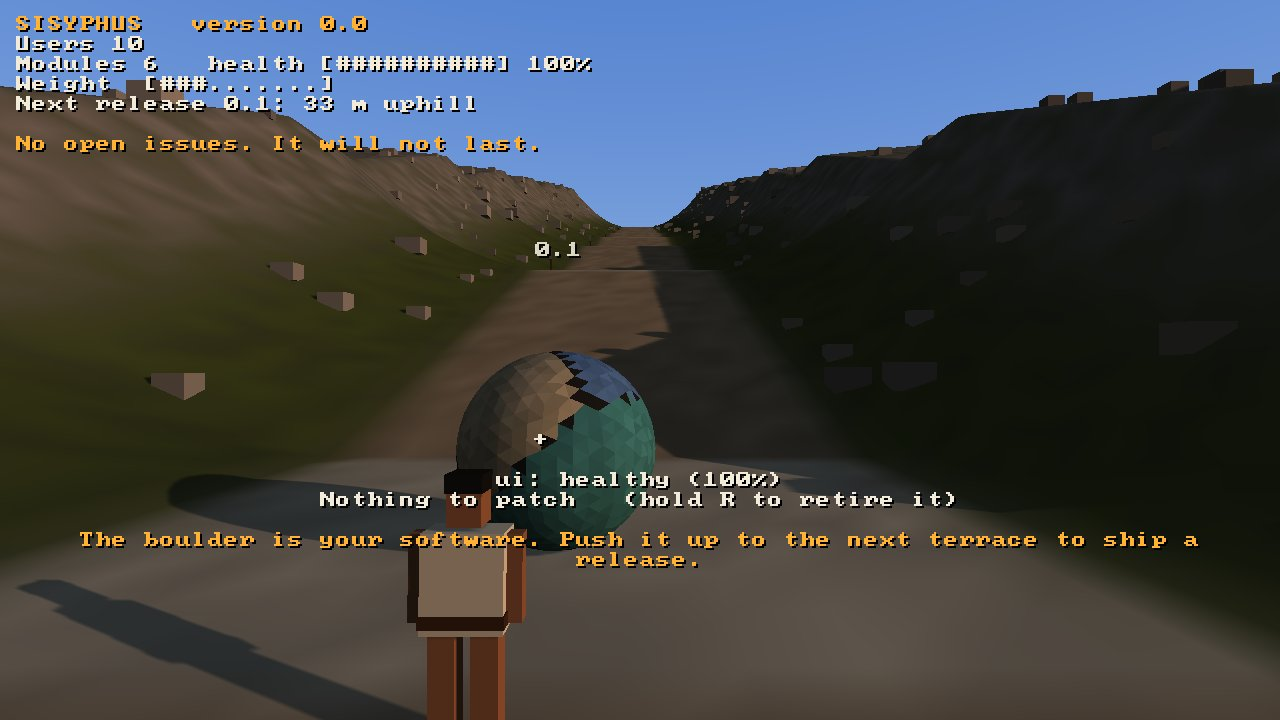
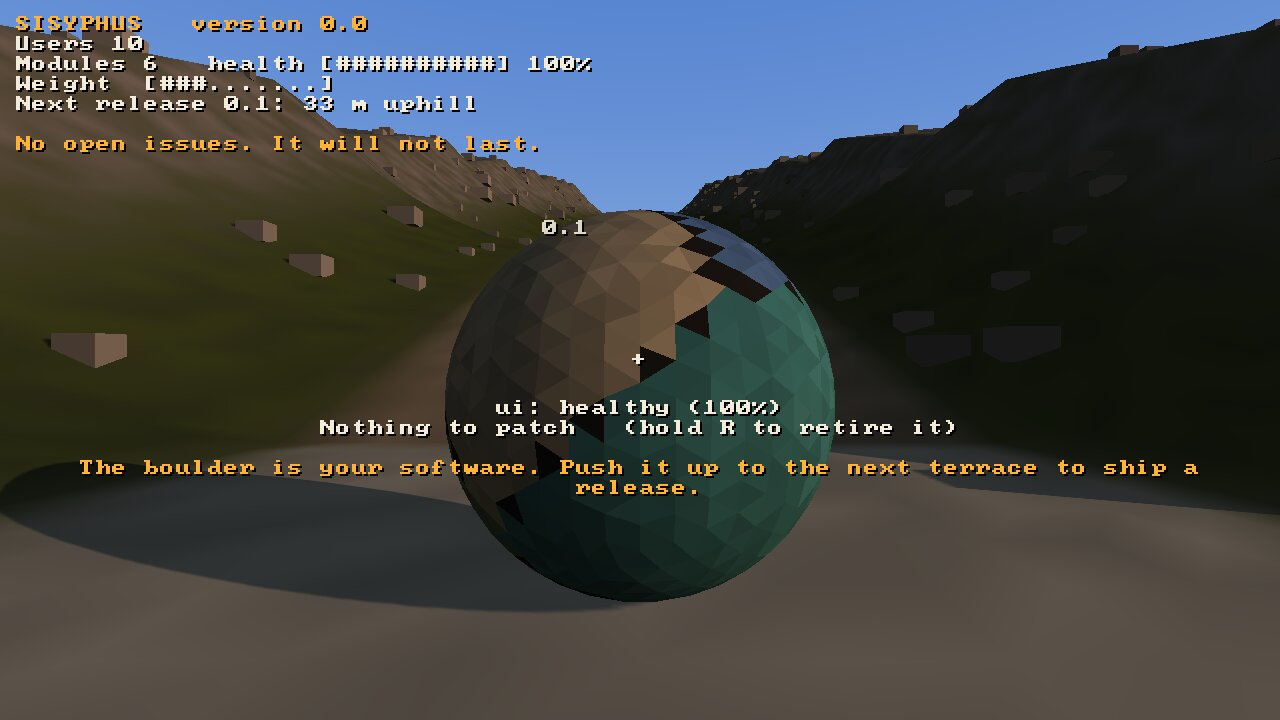
First person by default; V shows him from straight behind (#9)
The game starts at Sisyphus's eyes again. V now switches to a camera
directly behind him, centred, in place of the view over his right
shoulder. The headless playthrough's trailhead shot is from his eyes,
with a new trailhead-behind shot of the other view, and the README image
is refreshed. The rules are untouched: the pinned fingerprint holds.

Claude-Session: https://claude.ai/code/session_01LYNeuk2hw8vxutLJuJf5BC

diff --git a/web/shell.html b/web/shell.html
@@ -108,7 +108,7 @@
     <button id="patchBtn" title="Hold on a module to patch it (E)">Patch</button>
     <button id="retireBtn" title="Hold on a module to retire it (R)">Retire</button>
     <button data-key="20" title="Sit and look at the view (Q)">Sit</button>
-    <button data-key="25" title="His eyes, or over his shoulder (V)">Camera</button>
+    <button data-key="25" title="From behind him, or back to his eyes (V)">Camera</button>
   </div>
   <div id="clickToPlay"><div><b>Click to play</b><br><span style="color:var(--dim)">Esc frees the mouse</span></div></div>
 </div>
@@ -126,14 +126,14 @@
     <li>Mouse: look. <kbd>W</kbd><kbd>A</kbd><kbd>S</kbd><kbd>D</kbd>: walk; walk into the boulder from below to push it.
       On a terrace, push from above to roll it back and turn it. <kbd>Shift</kbd>: hurry.</li>
     <li>Hold <kbd>E</kbd> on a module to patch it. Hold <kbd>R</kbd> to retire it: one less thing to keep.</li>
-    <li><kbd>Q</kbd>: sit and look at the view. <kbd>V</kbd>: his eyes, or back over his shoulder. <kbd>M</kbd>: sound. <kbd>F1</kbd>: the controls on screen.
+    <li><kbd>Q</kbd>: sit and look at the view. <kbd>V</kbd>: see him from behind, or back to his eyes. <kbd>M</kbd>: sound. <kbd>F1</kbd>: the controls on screen.
       <kbd>Esc</kbd>: free the mouse.</li>
   </ul>
   <ul class="for-touch">
     <li>Drag on the left half to walk (all the way out to hurry); walk into the boulder from below to push it.
       Drag on the right half to look.</li>
     <li>Hold <b>Patch</b> while looking at a module to patch it; hold <b>Retire</b> to retire it.
-      <b>Sit</b> looks at the view; <b>Camera</b> switches between his eyes and over his shoulder. <b>Sound</b> along the top turns the sound on or off.</li>
+      <b>Sit</b> looks at the view; <b>Camera</b> switches between his eyes (the default) and a view from behind him. <b>Sound</b> along the top turns the sound on or off.</li>
   </ul>
   <p style="color:var(--dim);font-size:13px">The game saves every minute, when you press Save (or <kbd>F5</kbd>), and when
   you leave the page; <kbd>F9</kbd> loads the last save. Saves stay in this browser on this device. Built on the

diff --git a/app/main.cpp b/app/main.cpp
@@ -8,7 +8,7 @@
 // Controls: mouse to look, W A S D to walk (walk into the boulder from below
 // to push it up the hill; on a terrace, from above to roll it back and turn
 // it), Shift to hurry, hold E on a module to patch it, hold R to retire it,
-// Q to sit and look at the view, V for his eyes (or back over his shoulder), M for sound, F5 to save, F9 to
+// Q to sit and look at the view, V to see him from behind (or back through his eyes), M for sound, F5 to save, F9 to
 // load the last save, F1 for help, Esc to free the mouse (Esc again quits).
 //
 // The game continues from its save in DIR (by default %APPDATA%\Sisyphus\default
@@ -134,8 +134,9 @@ int runPlaythrough(strata::Engine& engine, const Args& args) {
     bridge::Scene scene(engine);
     Autopilot pilot;
     Shooter shot{engine, scene, args.framesDir};
-    shot.shoot(w, "trailhead", play::cameraOverShoulder(w), true, true,
+    shot.shoot(w, "trailhead", play::cameraAtEyes(w), false, true,
                "The boulder is your software. Push it up to the next terrace to ship a release.");
+    shot.shoot(w, "trailhead-behind", play::cameraFollow(w), true, false);
     bool pushed = false, patched = false, summit = false, fell = false, night = false, trouble = false;
     int releases = 0;
     const int64_t limit = 60LL * 60 * kTickRate;

diff --git a/src/play/session.cpp b/src/play/session.cpp
@@ -38,7 +38,7 @@ Session::Session(strata::Engine& engine, const SessionOptions& options)
     : engine_(engine), options_(options), w_(newWorld(options.seed)), scene_(engine) {
     if (options_.sound) sound_.start();
     World start = w_;
-    outside_ = true;  // over his shoulder; V for his eyes
+    outside_ = false;  // his eyes; V for behind him
     if (!options_.slot.empty() && !options_.fresh && hasSave(options_.slot)) {
         World loaded;
         const LoadResult r = loadSave(options_.slot, loaded);
@@ -266,7 +266,7 @@ void Session::frame(double dt) {
     o.quote = quote();
     o.aim = !options_.autopilot;
     o.saves = !options_.slot.empty();
-    const Camera cam = !out ? cameraAtEyes(w_) : options_.autopilot ? cameraBehind(w_) : cameraOverShoulder(w_);
+    const Camera cam = !out ? cameraAtEyes(w_) : options_.autopilot ? cameraBehind(w_) : cameraFollow(w_);
     render(engine_, w_, cam, out, o);
 }
 

diff --git a/src/play/view.h b/src/play/view.h
@@ -25,9 +25,9 @@ struct Camera {
 Camera cameraAtEyes(const World& w);
 // Behind and above him, looking past him (the autopilot's view, and screenshots).
 Camera cameraBehind(const World& w);
-// Over his right shoulder, looking where he looks: the view you play in,
-// until V switches to his eyes.
-Camera cameraOverShoulder(const World& w);
+// Straight behind him, looking where he looks: the view V switches to from
+// his eyes.
+Camera cameraFollow(const World& w);
 // Off to his side, looking across at him and the boulder (the tour's shots).
 Camera cameraBeside(const World& w, float side = 1.0f, float back = 2.0f);
 

diff --git a/src/play/view.cpp b/src/play/view.cpp
@@ -197,12 +197,11 @@ Camera cameraBehind(const World& w) {
     return c;
 }
 
-Camera cameraOverShoulder(const World& w) {
+Camera cameraFollow(const World& w) {
     const Player& p = w.player;
     const Vec3 dir = lookDirection(p.yaw, p.pitch);
-    const Vec3 right{std::cos(p.yaw), 0, std::sin(p.yaw)};
     Camera c;
-    c.eye = eyePosition(w) - dir * 3.6f + right * 1.1f + Vec3{0, 0.9f, 0};
+    c.eye = eyePosition(w) - dir * 3.8f + Vec3{0, 0.9f, 0};
     c.eye.y = std::max(c.eye.y, hill::groundHeight(c.eye.x, c.eye.z) + 0.6f);
     c.yaw = p.yaw;
     c.pitch = p.pitch;

diff --git a/README.md b/README.md
@@ -20,7 +20,7 @@ older code, faster rot. There is no end. You can always sit down and look at the
 
 | | |
 |---|---|
-| ![At the trailhead, over his shoulder](docs/images/trailhead.jpg) | ![The modules in trouble, named where they are on the stone](docs/images/trouble.jpg) |
+| ![At the trailhead, through his eyes](docs/images/trailhead.jpg) | ![The modules in trouble, named where they are on the stone](docs/images/trouble.jpg) |
 | ![The summit: 1.0 ships](docs/images/summit.jpg) | ![End of life: it rolls back down](docs/images/rolling-back.jpg) |
 | ![From the summit, looking down at all of it](docs/images/summit-view.jpg) | ![Back at the trailhead, sitting](docs/images/sitting.jpg) |
 
@@ -42,7 +42,7 @@ Or play it in a browser at https://sisyphus.play.danielstephenson.dev.
 | Patch the module you look at | hold `E` | hold **Patch** |
 | Retire it (one less thing to keep) | hold `R` | hold **Retire** |
 | Sit and look at the view | `Q` | **Sit** |
-| His eyes, or back over his shoulder (the default) | `V` | **Camera** |
+| From behind him, or back to his eyes (the default) | `V` | **Camera** |
 | Save / load the last save | `F5` / `F9` | **Save** |
 | Controls on screen / free the mouse | `F1` / `Esc` | |
 
